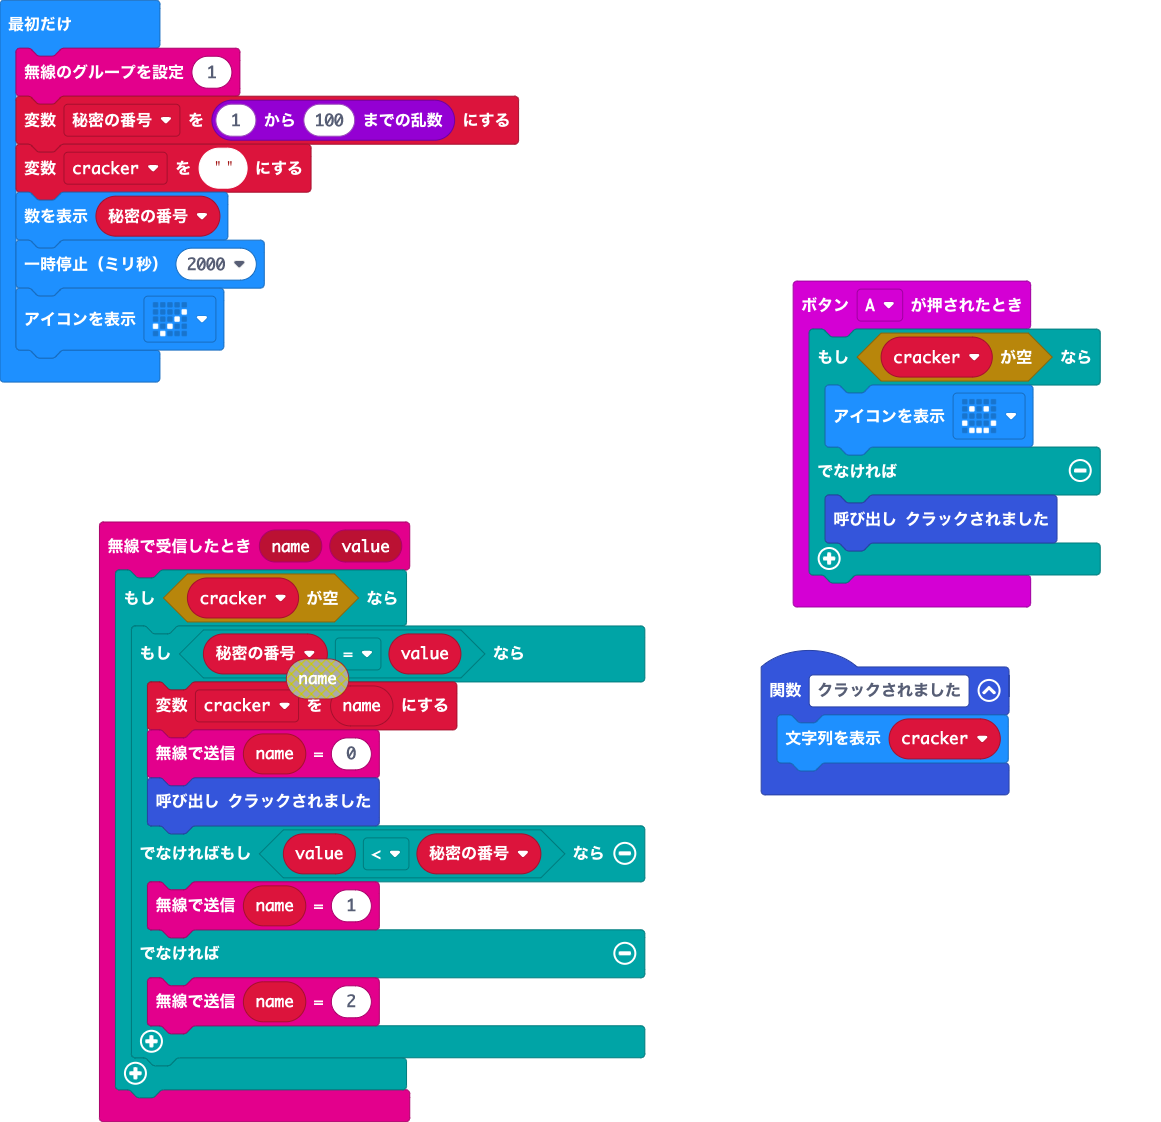
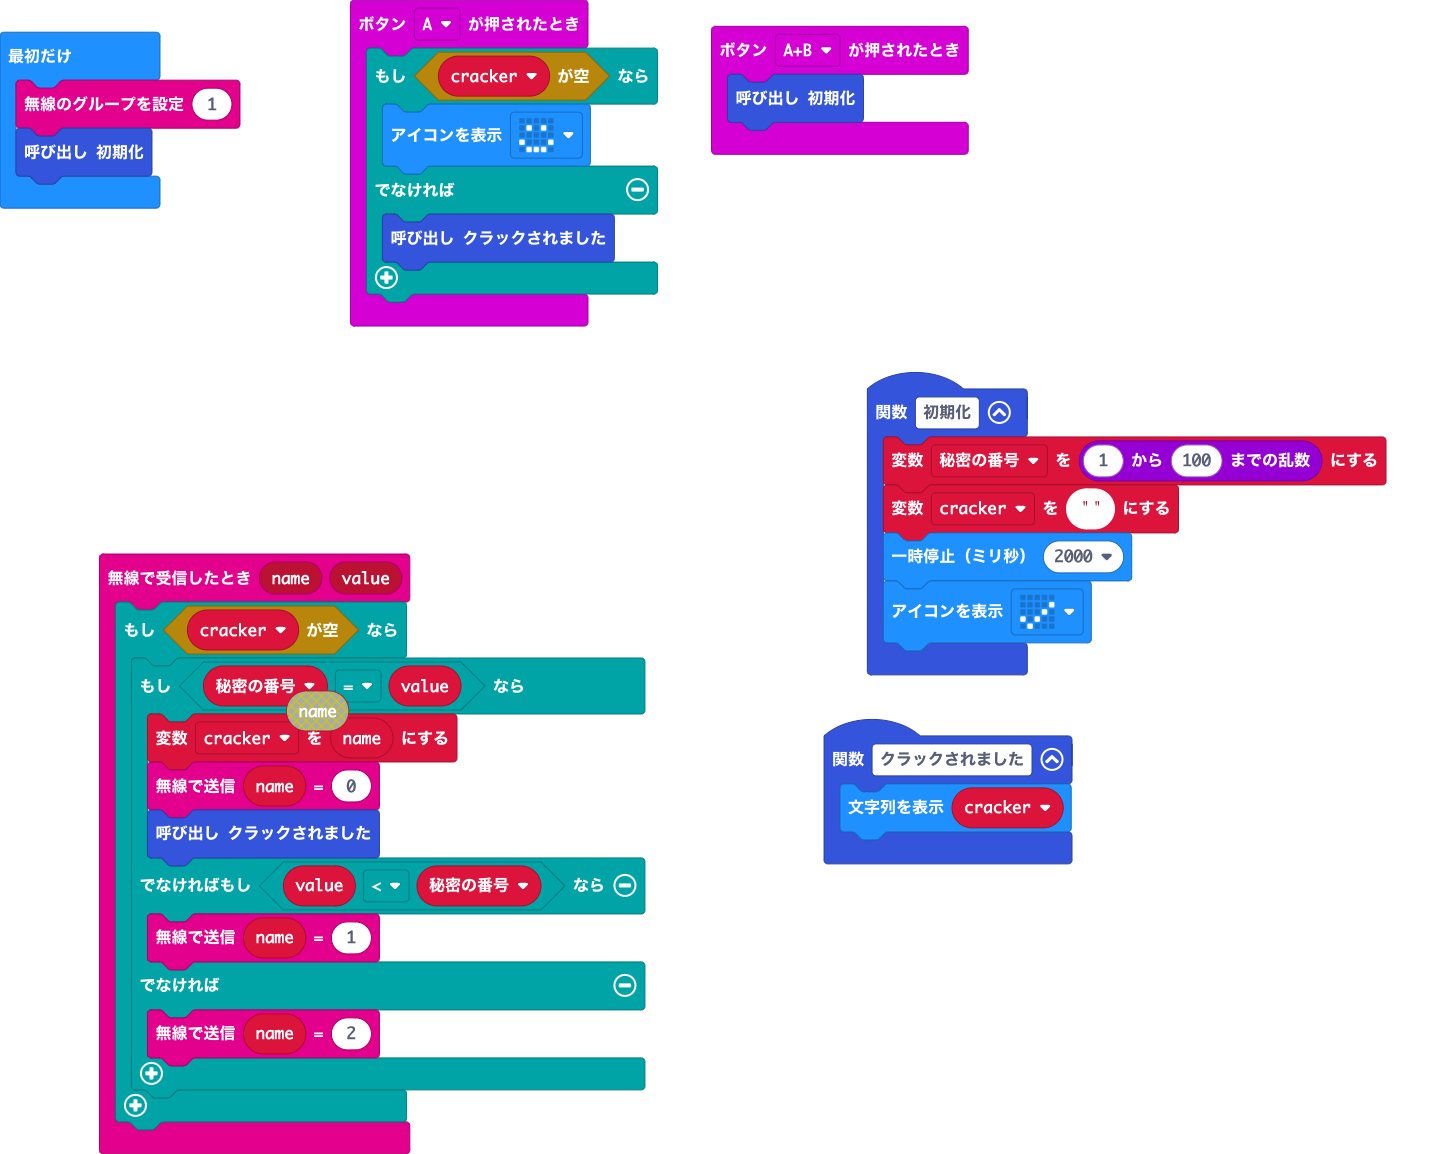
A+B操作で初期化できるようにした

diff --git a/main.ts b/main.ts
@@ -5,6 +5,15 @@ input.onButtonPressed(Button.A, function () {
         クラックされました()
     }
 })
+function 初期化 () {
+    秘密の番号 = randint(1, 100)
+    cracker = ""
+    basic.pause(2000)
+    basic.showIcon(IconNames.Yes)
+}
+input.onButtonPressed(Button.AB, function () {
+    初期化()
+})
 radio.onReceivedValue(function (name, value) {
     if (cracker.isEmpty()) {
         if (秘密の番号 == value) {
@@ -21,11 +30,7 @@ radio.onReceivedValue(function (name, value) {
 function クラックされました () {
     basic.showString(cracker)
 }
-let cracker = ""
 let 秘密の番号 = 0
+let cracker = ""
 radio.setGroup(1)
-秘密の番号 = randint(1, 100)
-cracker = ""
-basic.showNumber(秘密の番号)
-basic.pause(2000)
-basic.showIcon(IconNames.Yes)
+初期化()
